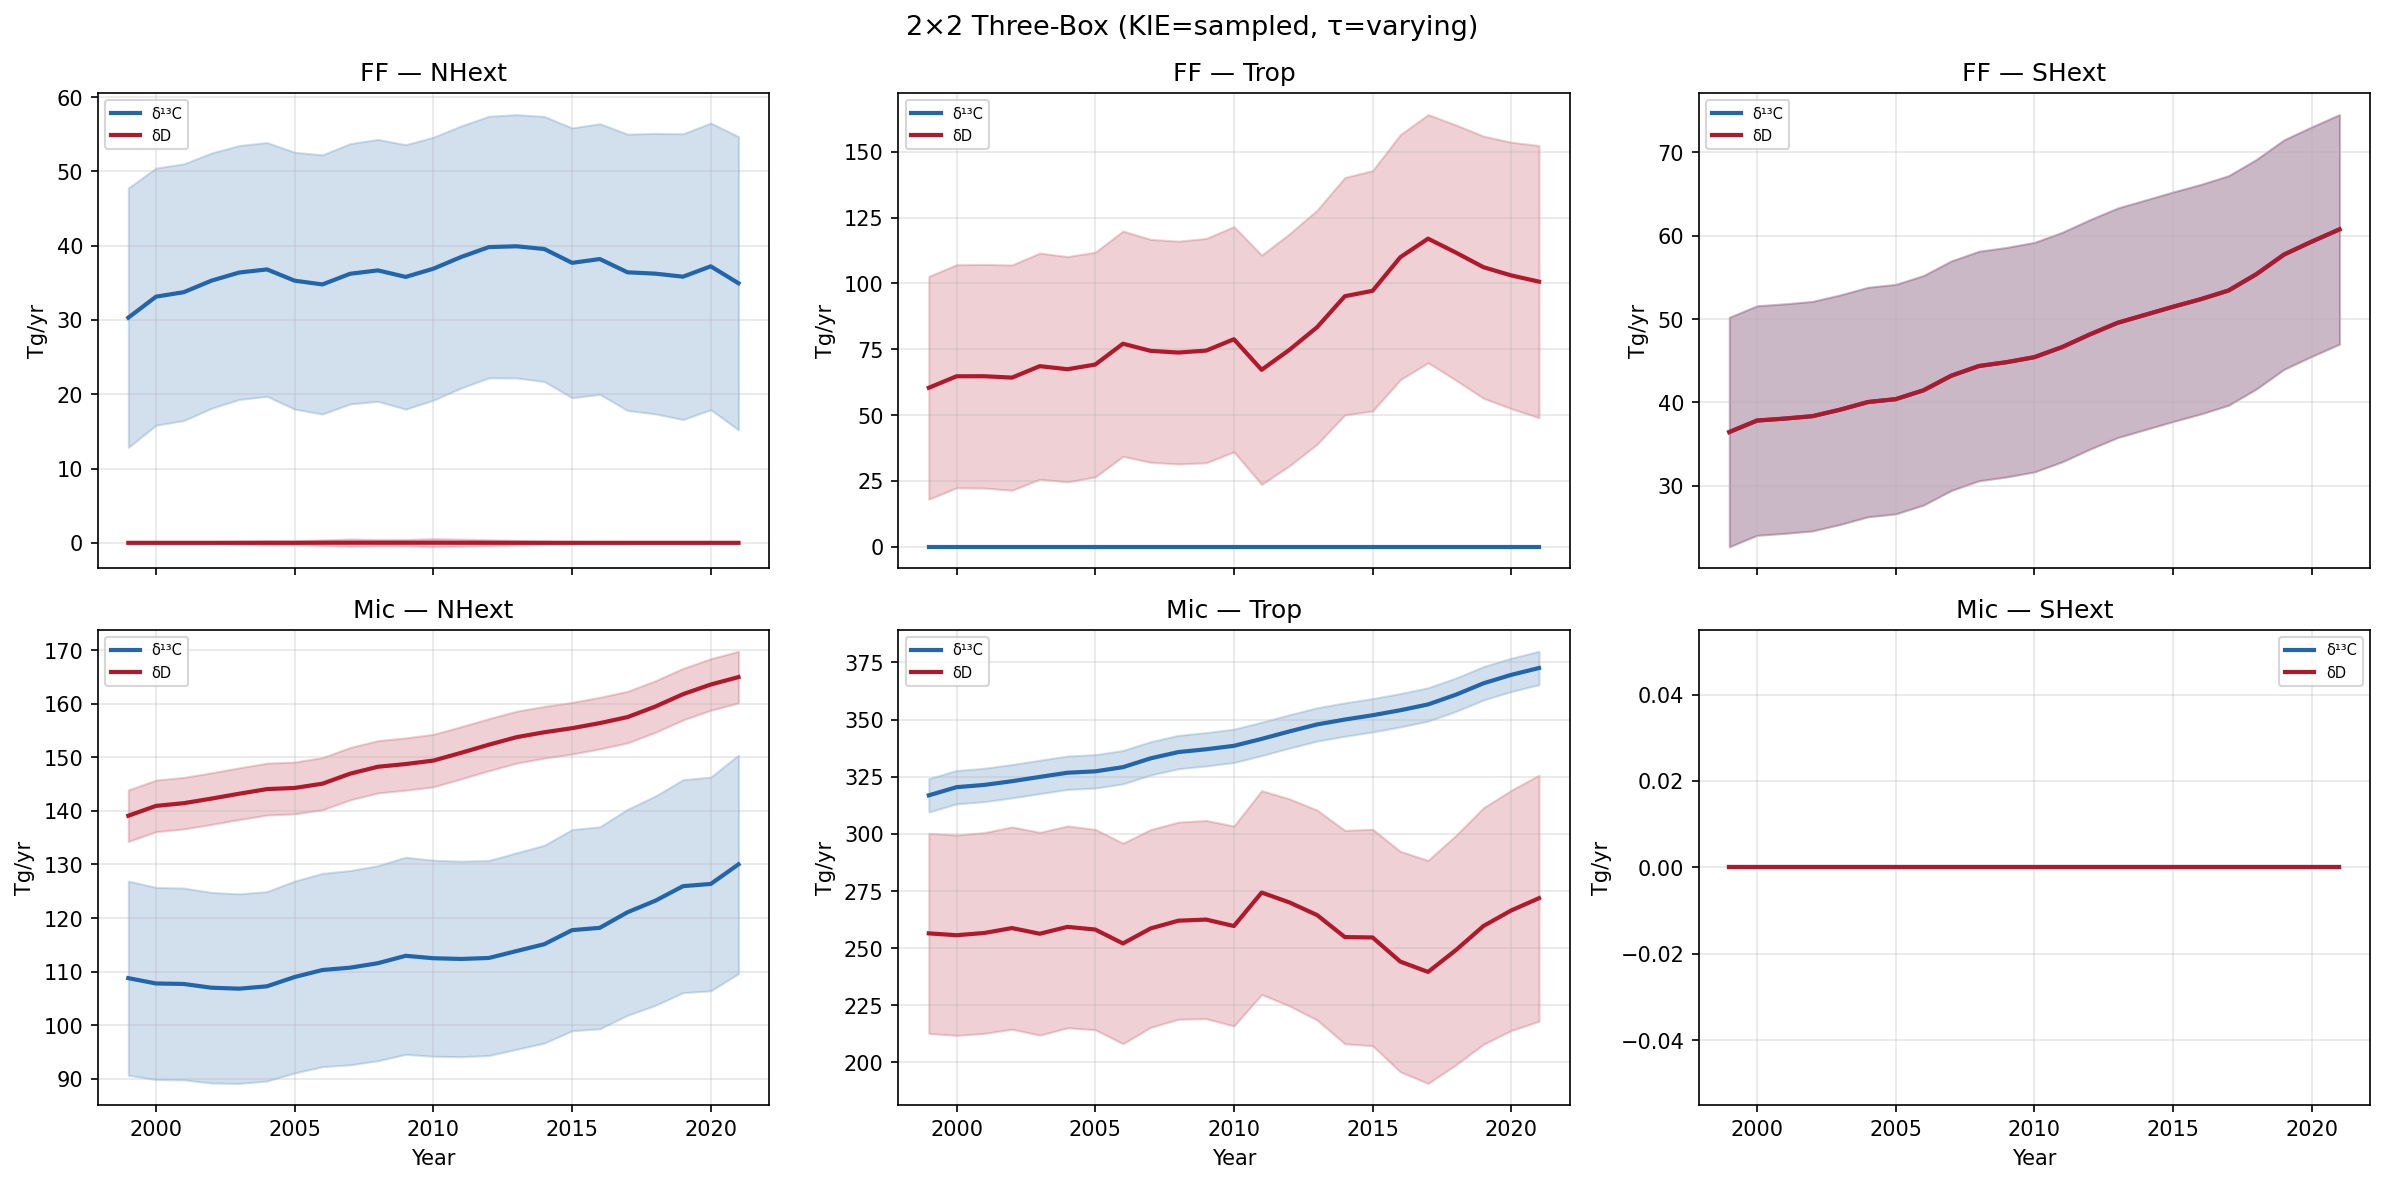
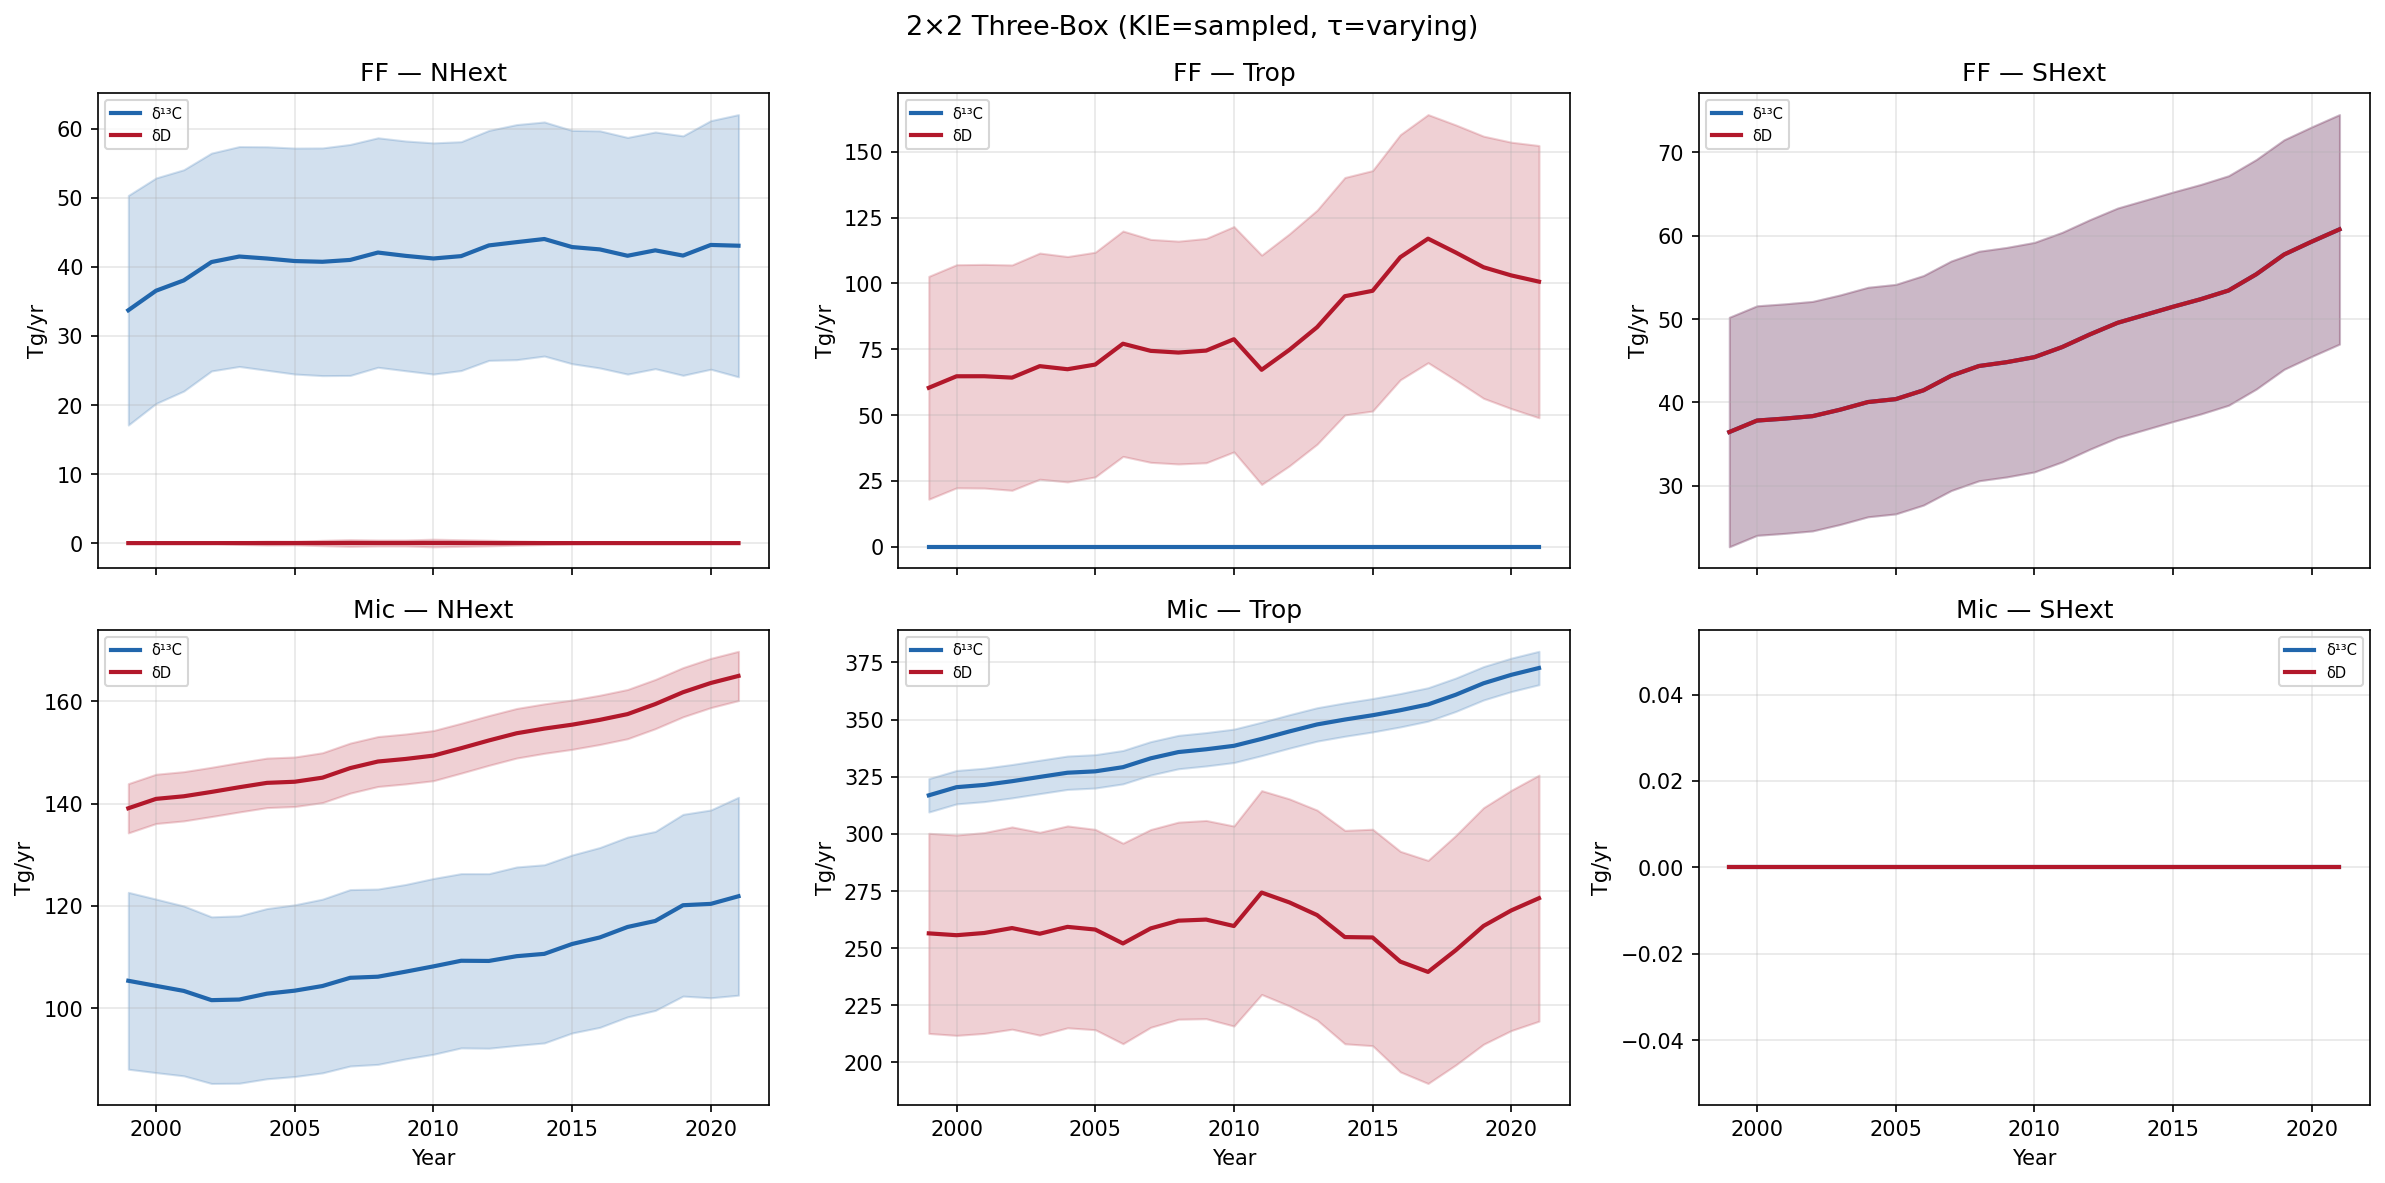
Integrate per-box d13C source signatures + atmospheric d13C into 3-box models
common.py:
  - Add LoadedData fields for 3-box d13C source MC + atmospheric d13C MC
  - Load ThreeBox_atm_d13C_annual.csv (replaces NH/SH interpolation)
  - Load ThreeBox_atm_d13C_{NHext,Trop,SHext}_MC.csv (bootstrap)
  - Load {FF,Mic,BB}_d13C_{NHext,Trop,SHext}_MC.csv source signatures
  - sample_source_signatures_three_box() now returns per-box d13C keys

3x3_three.py:
  - A-matrix uses per-box d13C source sigs (sigs['ff_d13C_NHext'] etc.)
  - Atmospheric d13C MC from per-box bootstrap when available

2x2_three.py:
  - d13C solve uses per-box source sigs instead of global
  - Atmospheric d13C MC from per-box bootstrap when available

Results (3x3): FF=192.0, Mic=364.7, BB=45.5 Tg/yr
  NHext FF still 0 (condition number issue, not d13C-related)
  FF trend +50.6 (was +27.8 with global d13C) — per-box sigs matter

diff --git a/common.py b/common.py
@@ -440,6 +440,20 @@ class LoadedData:
     BB_dD_NHext_MC: Optional[np.ndarray] = None
     BB_dD_Trop_MC: Optional[np.ndarray] = None
     BB_dD_SHext_MC: Optional[np.ndarray] = None
+    # 3-box δ¹³C source signature MC matrices
+    FF_d13C_NHext_MC: Optional[np.ndarray] = None
+    FF_d13C_Trop_MC: Optional[np.ndarray] = None
+    FF_d13C_SHext_MC: Optional[np.ndarray] = None
+    Mic_d13C_NHext_MC: Optional[np.ndarray] = None
+    Mic_d13C_Trop_MC: Optional[np.ndarray] = None
+    Mic_d13C_SHext_MC: Optional[np.ndarray] = None
+    BB_d13C_NHext_MC: Optional[np.ndarray] = None
+    BB_d13C_Trop_MC: Optional[np.ndarray] = None
+    BB_d13C_SHext_MC: Optional[np.ndarray] = None
+    # 3-box atmospheric δ¹³C MC bootstrap
+    c13_NHext_MC: Optional[np.ndarray] = None
+    c13_Trop_MC: Optional[np.ndarray] = None
+    c13_SHext_MC: Optional[np.ndarray] = None
 
     # Model dimensions
     n_years: int = 0
@@ -728,17 +742,53 @@ def load_data(base_dir: Path, two_box: bool = False, three_box: bool = False) ->
         d.CH4_Trop  = d.CH4_global + CH4_TROP_OFFSET
         d.CH4_SHext = d.CH4_global + CH4_SHEXT_OFFSET
 
-        # δ¹³C per box: approximate from NH/SH
-        # NHext is slightly more depleted than NH, Trop near global, SHext similar to SH
-        if d.c13_NH is not None and d.c13_SH is not None:
-            # Use measured NH/SH as anchors with interpolation
-            d.c13_NHext = d.c13_NH - 0.05    # NHext slightly more negative than NH mean
-            d.c13_Trop  = 0.6 * d.c13_NH + 0.4 * d.c13_SH  # tropics: weighted
-            d.c13_SHext = d.c13_SH + 0.03    # SHext slightly less negative than SH mean
+        # δ¹³C per box: use ThreeBox_atm_d13C_annual.csv if available
+        d13C_3box_file = data_dir / "ThreeBox_atm_d13C_annual.csv"
+        if d13C_3box_file.exists():
+            d13C_3box = pd.read_csv(d13C_3box_file)
+            d13C_years = d13C_3box['year'].values
+            d13C_nhext = d13C_3box['NHext'].values
+            d13C_trop  = d13C_3box['Trop'].values
+            d13C_shext = d13C_3box['SHext'].values
+
+            full_c13_nhext = np.full(tl + 1, d13C_nhext[0])
+            full_c13_trop  = np.full(tl + 1, d13C_trop[0])
+            full_c13_shext = np.full(tl + 1, d13C_shext[0])
+            for i, yr in enumerate(d13C_years):
+                idx = int(yr) - 1999
+                if 0 <= idx < tl + 1:
+                    full_c13_nhext[idx] = d13C_nhext[i]
+                    full_c13_trop[idx]  = d13C_trop[i]
+                    full_c13_shext[idx] = d13C_shext[i]
+            # Forward-fill pre-observation years
+            for arr in [full_c13_nhext, full_c13_trop, full_c13_shext]:
+                for j in range(1, len(arr)):
+                    if j > 0 and int(1999 + j) < int(d13C_years[0]):
+                        arr[j] = arr[j-1]
+
+            d.c13_NHext = full_c13_nhext
+            d.c13_Trop  = full_c13_trop
+            d.c13_SHext = full_c13_shext
+            print(f"  3-box atm δ¹³C: loaded {len(d13C_3box)} years from ThreeBox_atm_d13C_annual.csv")
+        elif d.c13_NH is not None and d.c13_SH is not None:
+            # Fallback: interpolate from NH/SH
+            d.c13_NHext = d.c13_NH - 0.05
+            d.c13_Trop  = 0.6 * d.c13_NH + 0.4 * d.c13_SH
+            d.c13_SHext = d.c13_SH + 0.03
+            print("  3-box atm δ¹³C: interpolated from NH/SH (fallback)")
         else:
             d.c13_NHext = d.c13_global - 0.1
             d.c13_Trop  = d.c13_global
             d.c13_SHext = d.c13_global + 0.1
+            print("  3-box atm δ¹³C: offset from global (fallback)")
+
+        # 3-box atmospheric δ¹³C bootstrap MC
+        for box_name in ['NHext', 'Trop', 'SHext']:
+            mc_file = data_dir / f"ThreeBox_atm_d13C_{box_name}_MC.csv"
+            if mc_file.exists():
+                _df = pd.read_csv(mc_file)
+                _mat = _df.iloc[:, 1:].to_numpy(dtype=np.float64)
+                setattr(d, f'c13_{box_name}_MC', _mat)
 
         # δD atmospheric: use ThreeBox_atm_dD_annual.csv (2005–2024)
         dD_3box_file = data_dir / "ThreeBox_atm_dD_annual.csv"
@@ -783,6 +833,25 @@ def load_data(base_dir: Path, two_box: bool = False, three_box: bool = False) ->
             'BB_dD_SHext_MC': 'BB_dD_SHext_MC.csv',
         }
         for attr, fname in _three_box_src.items():
+            fpath = data_dir / fname
+            if fpath.exists():
+                _df = pd.read_csv(fpath)
+                _mat = _df.iloc[:, 1:].to_numpy(dtype=np.float64)
+                setattr(d, attr, _mat)
+
+        # δ¹³C source signature MC (NHext / Trop / SHext)
+        _three_box_d13C_src = {
+            'FF_d13C_NHext_MC': 'FF_d13C_NHext_MC.csv',
+            'FF_d13C_Trop_MC':  'FF_d13C_Trop_MC.csv',
+            'FF_d13C_SHext_MC': 'FF_d13C_SHext_MC.csv',
+            'Mic_d13C_NHext_MC': 'Mic_d13C_NHext_MC.csv',
+            'Mic_d13C_Trop_MC':  'Mic_d13C_Trop_MC.csv',
+            'Mic_d13C_SHext_MC': 'Mic_d13C_SHext_MC.csv',
+            'BB_d13C_NHext_MC': 'BB_d13C_NHext_MC.csv',
+            'BB_d13C_Trop_MC':  'BB_d13C_Trop_MC.csv',
+            'BB_d13C_SHext_MC': 'BB_d13C_SHext_MC.csv',
+        }
+        for attr, fname in _three_box_d13C_src.items():
             fpath = data_dir / fname
             if fpath.exists():
                 _df = pd.read_csv(fpath)
@@ -937,14 +1006,19 @@ def sample_atm_dD_hemi(data: LoadedData, k: int, target_length: int):
 
 
 def sample_source_signatures_three_box(rng, data: LoadedData, k: int, target_length: int):
-    """Sample 3-box δD source signatures for MC iteration k.
+    """Sample 3-box δD and δ¹³C source signatures for MC iteration k.
 
     Returns dict with keys:
-        ff_d13C, bb_d13C, mic_d13C  (global — δ¹³C shared across boxes)
-        ff_dD_NHext, ff_dD_Trop, ff_dD_SHext
-        bb_dD_NHext, bb_dD_Trop, bb_dD_SHext
-        mic_dD_NHext, mic_dD_Trop, mic_dD_SHext
-        ff_dD, bb_dD, mic_dD  (global fallback)
+        Per-box δ¹³C:
+          ff_d13C_NHext, ff_d13C_Trop, ff_d13C_SHext
+          bb_d13C_NHext, bb_d13C_Trop, bb_d13C_SHext
+          mic_d13C_NHext, mic_d13C_Trop, mic_d13C_SHext
+        Per-box δD:
+          ff_dD_NHext, ff_dD_Trop, ff_dD_SHext
+          bb_dD_NHext, bb_dD_Trop, bb_dD_SHext
+          mic_dD_NHext, mic_dD_Trop, mic_dD_SHext
+        Global fallbacks:
+          ff_d13C, bb_d13C, mic_d13C, ff_dD, bb_dD, mic_dD
     """
     tl = target_length
     global_sigs = sample_source_signatures(rng, data, k, tl)
@@ -957,9 +1031,21 @@ def sample_source_signatures_three_box(rng, data: LoadedData, k: int, target_len
         return global_arr
 
     result = {
-        'ff_d13C': global_sigs['ff_d13C'],
-        'bb_d13C': global_sigs['bb_d13C'],
+        # Per-box δ¹³C source signatures (fall back to global if MC data unavailable)
+        'ff_d13C_NHext':  _pick_box(data.FF_d13C_NHext_MC,  global_sigs['ff_d13C'], k, tl),
+        'ff_d13C_Trop':   _pick_box(data.FF_d13C_Trop_MC,   global_sigs['ff_d13C'], k, tl),
+        'ff_d13C_SHext':  _pick_box(data.FF_d13C_SHext_MC,  global_sigs['ff_d13C'], k, tl),
+        'bb_d13C_NHext':  _pick_box(data.BB_d13C_NHext_MC,  global_sigs['bb_d13C'], k, tl),
+        'bb_d13C_Trop':   _pick_box(data.BB_d13C_Trop_MC,   global_sigs['bb_d13C'], k, tl),
+        'bb_d13C_SHext':  _pick_box(data.BB_d13C_SHext_MC,  global_sigs['bb_d13C'], k, tl),
+        'mic_d13C_NHext': _pick_box(data.Mic_d13C_NHext_MC, global_sigs['mic_d13C'], k, tl),
+        'mic_d13C_Trop':  _pick_box(data.Mic_d13C_Trop_MC,  global_sigs['mic_d13C'], k, tl),
+        'mic_d13C_SHext': _pick_box(data.Mic_d13C_SHext_MC, global_sigs['mic_d13C'], k, tl),
+        # Global δ¹³C fallback
+        'ff_d13C':  global_sigs['ff_d13C'],
+        'bb_d13C':  global_sigs['bb_d13C'],
         'mic_d13C': global_sigs['mic_d13C'],
+        # Per-box δD source signatures
         'ff_dD_NHext': _pick_box(data.FF_dD_NHext_MC, global_sigs['ff_dD'], k, tl),
         'ff_dD_Trop':  _pick_box(data.FF_dD_Trop_MC,  global_sigs['ff_dD'], k, tl),
         'ff_dD_SHext': _pick_box(data.FF_dD_SHext_MC, global_sigs['ff_dD'], k, tl),
@@ -969,6 +1055,7 @@ def sample_source_signatures_three_box(rng, data: LoadedData, k: int, target_len
         'mic_dD_NHext': _pick_box(data.Mic_dD_NHext_MC, global_sigs['mic_dD'], k, tl),
         'mic_dD_Trop':  _pick_box(data.Mic_dD_Trop_MC,  global_sigs['mic_dD'], k, tl),
         'mic_dD_SHext': _pick_box(data.Mic_dD_SHext_MC, global_sigs['mic_dD'], k, tl),
+        # Global δD fallback
         'ff_dD': global_sigs['ff_dD'],
         'bb_dD': global_sigs['bb_dD'],
         'mic_dD': global_sigs['mic_dD'],

diff --git a/2x2_three.py b/2x2_three.py
@@ -15,7 +15,8 @@ Inter-box exchange:
 
 δD atmospheric:  ThreeBox_atm_dD_annual.csv (station-level, 2005–2024)
 δD source sigs:  per-box MC matrices (1998–2021, 1000 iterations)
-δ¹³C:            real NH/SH split → interpolated to 3 boxes
+δ¹³C atmospheric: ThreeBox_atm_d13C_annual.csv + bootstrap MC
+δ¹³C source sigs: per-box MC matrices (NHext/Trop/SHext, 1000 iterations)
 """
 
 import argparse
@@ -124,11 +125,19 @@ def run(cfg: ModelConfig):
         nc = min(len(c13_glob), n + 1)
         d13C_off = d13C_glob_MC[:nc] - c13_glob[:nc]
 
-        # δ¹³C per box: real mean + MC offset
+        # δ¹³C per box: use per-box bootstrap MC if available, else mean + global MC offset
         d13C_MC_box = {}
         for b in BOXES:
-            base = c13[b][:nc] if len(c13[b]) >= nc else pad_to_length(c13[b], nc)
-            d13C_MC_box[b] = base + d13C_off
+            mc_attr = getattr(data, f'c13_{b}_MC', None)
+            if mc_attr is not None:
+                col = min(k, mc_attr.shape[1] - 1)
+                # MC matrix rows = years (1998–2021); align to model years (1999–2021)
+                arr = mc_attr[1:nc, col].copy() if mc_attr.shape[0] >= nc else pad_to_length(mc_attr[1:, col], nc - 1)
+                # Prepend first value for year index 0 alignment
+                d13C_MC_box[b] = pad_to_length(arr, nc)
+            else:
+                base = c13[b][:nc] if len(c13[b]) >= nc else pad_to_length(c13[b], nc)
+                d13C_MC_box[b] = base + d13C_off
 
         # δD per box: use annual observations + small MC perturbation from global
         dD_glob_MC = sample_atm_dD(data, k, n)
@@ -210,12 +219,12 @@ def run(cfg: ModelConfig):
 
                 BB_j = BB_fixed[b][j] if j < len(BB_fixed[b]) else data.BB_global_mean * BB_FRAC[b]
 
-                denom_c = sigs['ff_d13C'][j] - sigs['mic_d13C'][j]
+                denom_c = sigs[f'ff_d13C_{b}'][j] - sigs[f'mic_d13C_{b}'][j]
                 denom_d = sigs[f'ff_dD_{b}'][j] - sigs[f'mic_dD_{b}'][j]
 
                 # δ¹³C solve
                 if abs(denom_c) > 0.1:
-                    ff = (S[b][j] * d13c_delta - sigs['mic_d13C'][j] * (S[b][j] - BB_j) - sigs['bb_d13C'][j] * BB_j) / denom_c
+                    ff = (S[b][j] * d13c_delta - sigs[f'mic_d13C_{b}'][j] * (S[b][j] - BB_j) - sigs[f'bb_d13C_{b}'][j] * BB_j) / denom_c
                     mic = S[b][j] - BB_j - ff
                     if ff < 0 or mic < 0:
                         n_neg['c'] += 1

diff --git a/3x3_three.py b/3x3_three.py
@@ -17,7 +17,8 @@ Inter-box exchange:
 
 δD atmospheric:  ThreeBox_atm_dD_annual.csv (real 3-box observations)
 δD source sigs:  per-box MC matrices (NHext/Trop/SHext)
-δ¹³C source sigs: global (shared across boxes — no hemispheric data yet)
+δ¹³C atmospheric: ThreeBox_atm_d13C_annual.csv (derived from NH/SH obs)
+δ¹³C source sigs: per-box MC matrices (NHext/Trop/SHext)
 """
 
 import argparse
@@ -137,8 +138,14 @@ def run(cfg: ModelConfig):
 
         d13C_MC_box = {}
         for b in BOXES:
-            base = c13[b][:nc] if len(c13[b]) >= nc else pad_to_length(c13[b], nc)
-            d13C_MC_box[b] = base + d13C_off
+            mc_attr = getattr(data, f'c13_{b}_MC', None)
+            if mc_attr is not None:
+                col = min(k, mc_attr.shape[1] - 1)
+                arr = mc_attr[1:nc, col].copy() if mc_attr.shape[0] >= nc else pad_to_length(mc_attr[1:, col], nc - 1)
+                d13C_MC_box[b] = pad_to_length(arr, nc)
+            else:
+                base = c13[b][:nc] if len(c13[b]) >= nc else pad_to_length(c13[b], nc)
+                d13C_MC_box[b] = base + d13C_off
 
         dD_glob_MC = sample_atm_dD(data, k, n)
         dD_glob_mean = data.dD_global[:n+1] if len(data.dD_global) >= n+1 else pad_to_length(data.dD_global, n+1)
@@ -193,12 +200,12 @@ def run(cfg: ModelConfig):
                 dD_src[b][j]   = (nD_j1  - nD_j  + nD_j  * aD  / tau_b - exD)  / S[b][j]
 
         sigs = sample_source_signatures_three_box(rng, data, k, n)
-        f13_bb  = delta_to_fraction_d13C(sigs['bb_d13C'])
-        f13_ff  = delta_to_fraction_d13C(sigs['ff_d13C'])
-        f13_mic = delta_to_fraction_d13C(sigs['mic_d13C'])
 
         for j in range(n):
             for b in BOXES:
+                f13_bb  = delta_to_fraction_d13C(sigs[f'bb_d13C_{b}'])
+                f13_ff  = delta_to_fraction_d13C(sigs[f'ff_d13C_{b}'])
+                f13_mic = delta_to_fraction_d13C(sigs[f'mic_d13C_{b}'])
                 fD_bb  = delta_to_fraction_dD(sigs[f'bb_dD_{b}'])
                 fD_ff  = delta_to_fraction_dD(sigs[f'ff_dD_{b}'])
                 fD_mic = delta_to_fraction_dD(sigs[f'mic_dD_{b}'])
